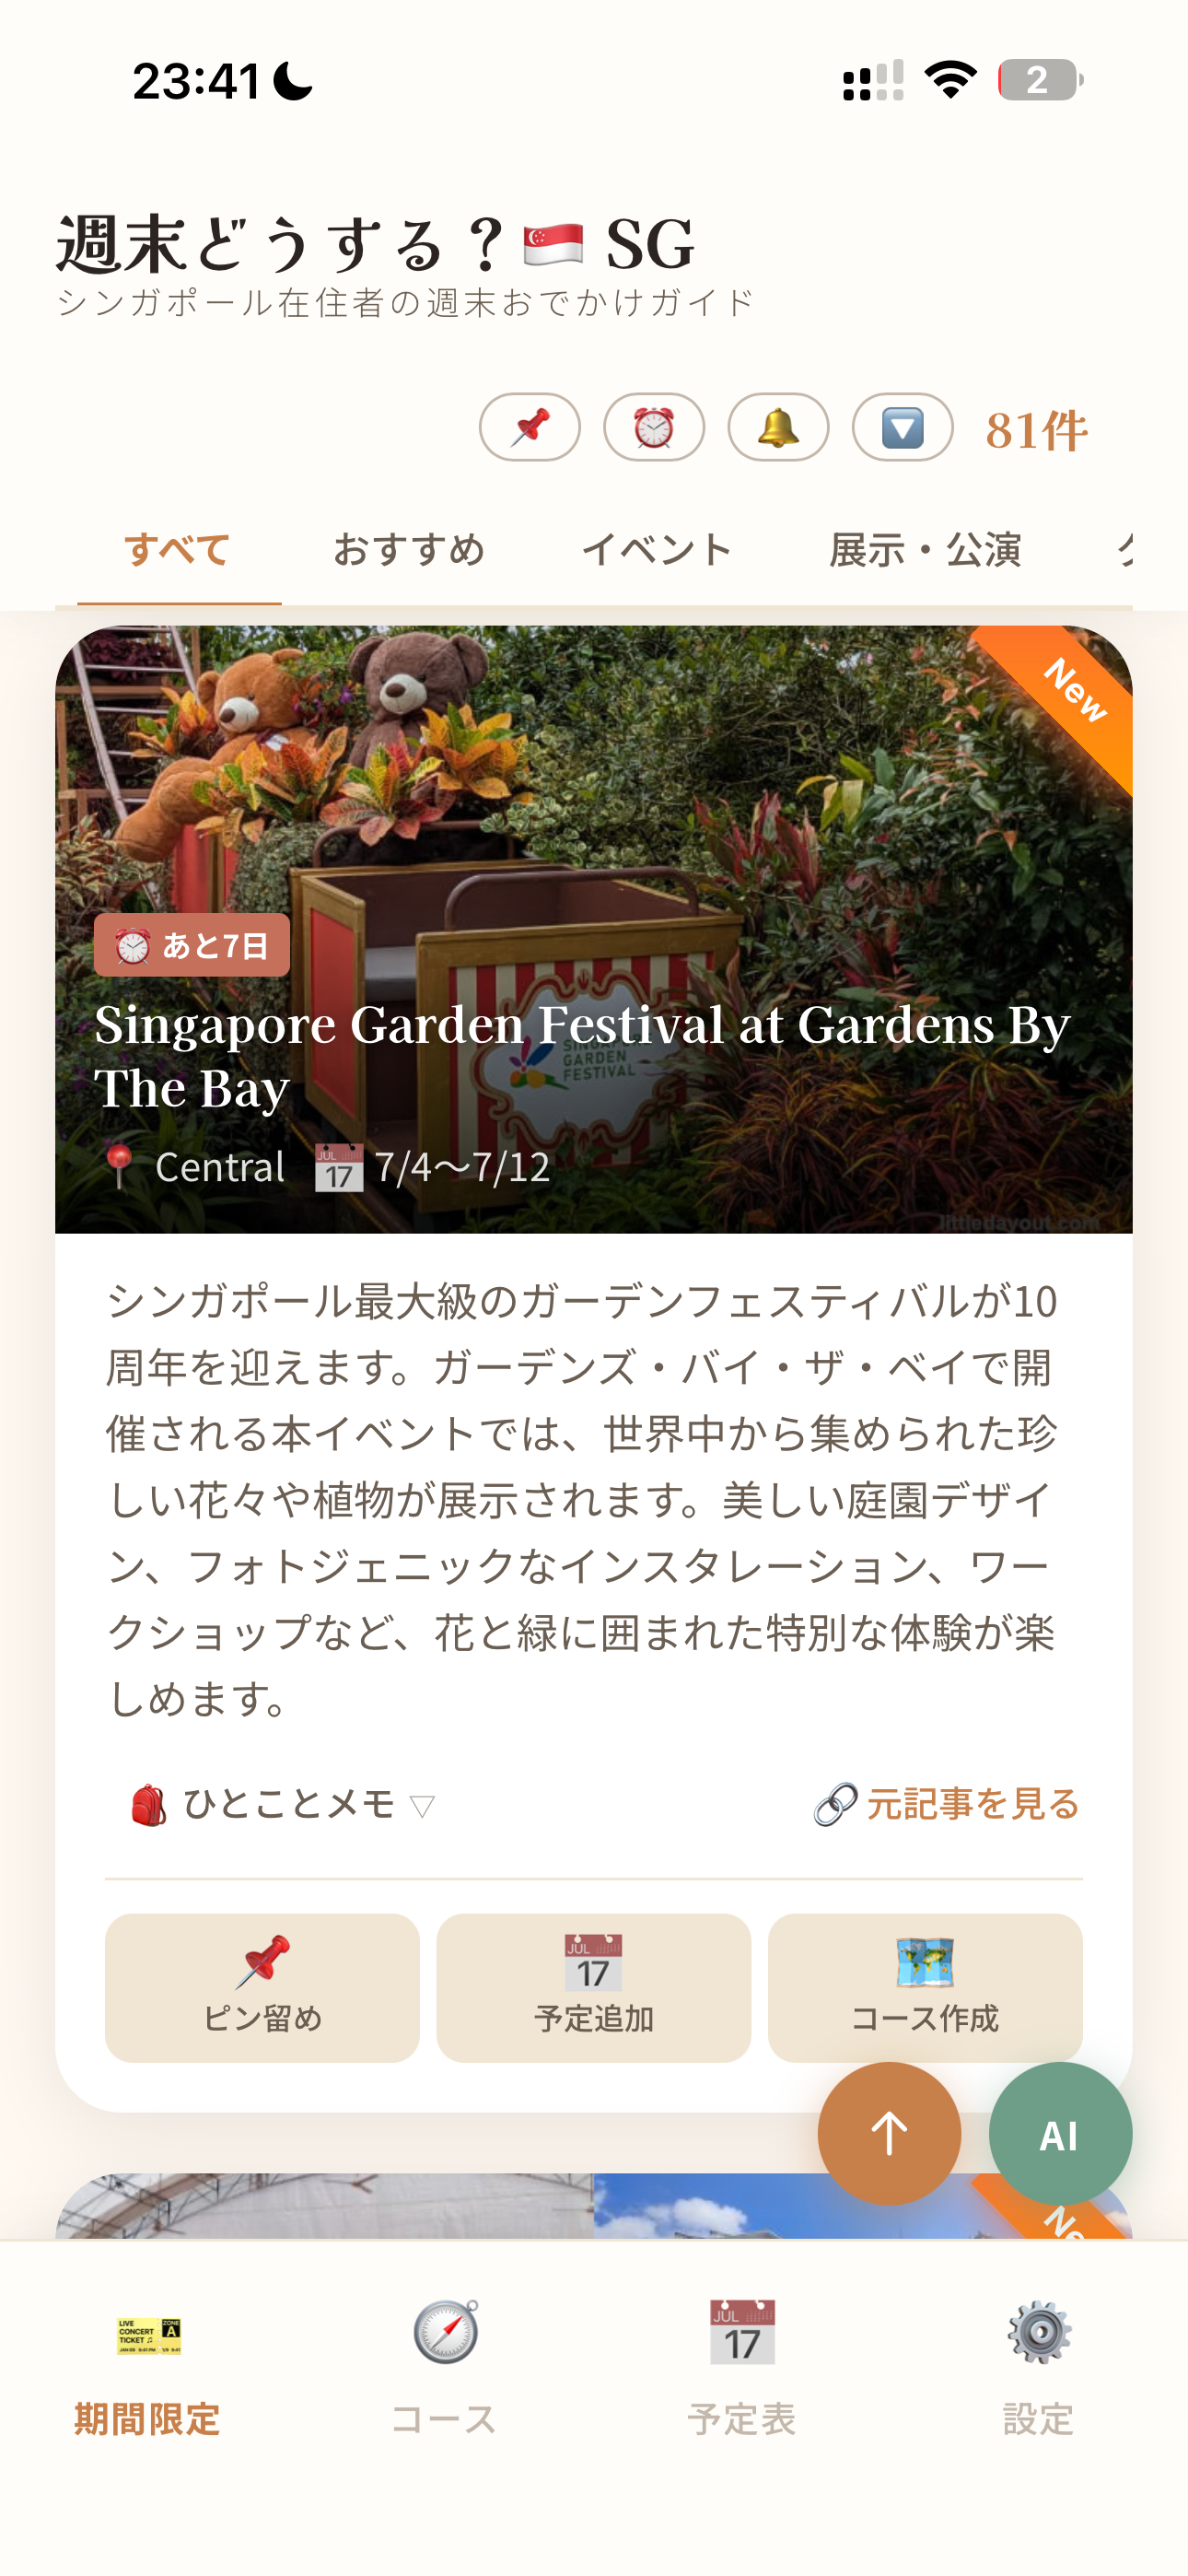
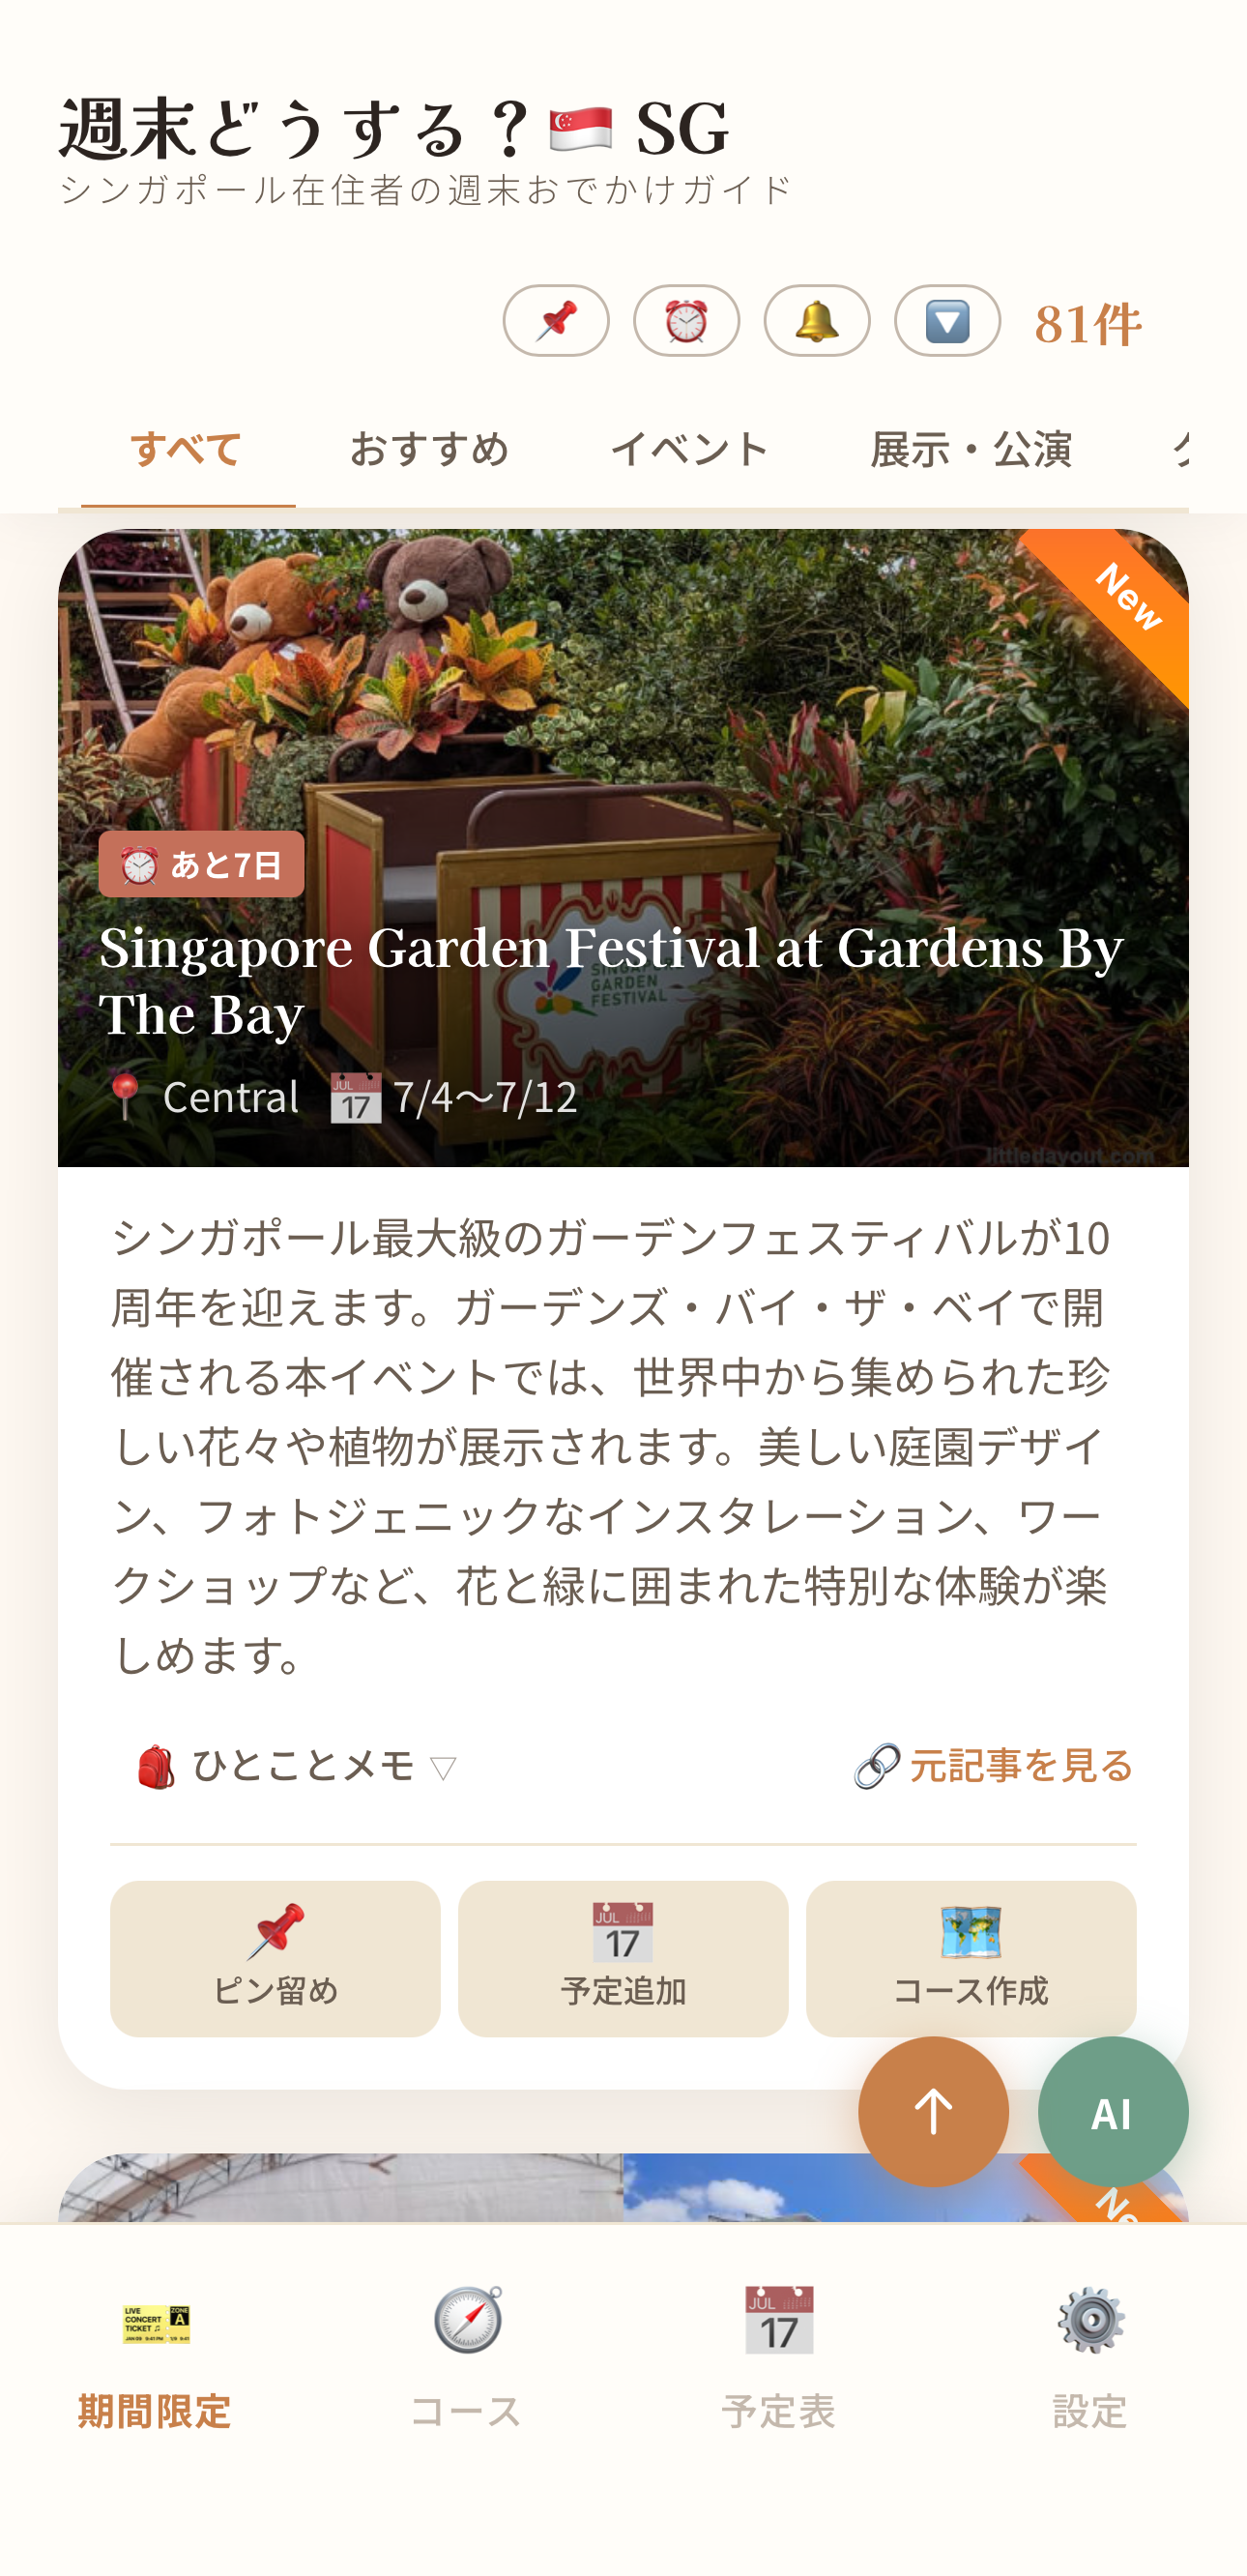
docs: リリースノート・about説明文・プライバシーポリシーを最新機能に合わせて更新
- ios-app/package.json: releaseNotesを探訪の思い出機能・来星日カウンター・アカウント連携必須化に合わせて更新（170文字以内）
- about.html: 「便利な機能」を4項目に拡張、AIコース作成をモデルコース・探訪スタンプ帳の紹介に差し替え。フォンモックアップ画像をステータスバー除去版に差し替え（探訪スタンプ帳のスクリーンショット追加）
- privacy.html: 位置情報（探訪チェックイン）・写真（思い出機能、端末内のみ保存）の項目を追記、最終更新日を更新

Claude-Session: https://claude.ai/code/session_01GrTkpYhh7GZVRETNxavzGK

diff --git a/public/about.html b/public/about.html
@@ -352,20 +352,20 @@
       <div class="mockup-item">
         <div class="phone">
           <div class="phone-img-wrap">
-            <img src="/screenshots/screen-events.png?v=3" alt="イベントを探す">
+            <img src="/screenshots/screen-events.png?v=4" alt="イベントを探す">
           </div>
         </div>
         <div class="mockup-label">イベントを探す</div>
       </div>
 
-      <!-- SCREEN 2: コース -->
+      <!-- SCREEN 2: 探訪スタンプ帳 -->
       <div class="mockup-item">
         <div class="phone">
           <div class="phone-img-wrap">
-            <img src="/screenshots/screen-courses.png?v=2" alt="AIコース提案">
+            <img src="/screenshots/screen-explore.png?v=1" alt="探訪スタンプ帳">
           </div>
         </div>
-        <div class="mockup-label">AIコース提案</div>
+        <div class="mockup-label">探訪スタンプ帳</div>
       </div>
 
       <!-- SCREEN 3: 予定表 -->
@@ -402,7 +402,7 @@
   <!-- FEATURES -->
   <section class="features">
     <div class="section-label">FEATURES</div>
-    <h2 class="section-title">3つの便利な機能</h2>
+    <h2 class="section-title">4つの便利な機能</h2>
     <div class="feature-grid">
       <div class="feature-card">
         <div class="feature-icon">🔍</div>
@@ -410,9 +410,14 @@
         <p>シンガポールの最新イベント・グルメ・体験情報を毎週更新。カテゴリ・エリア・日程で絞り込めます。</p>
       </div>
       <div class="feature-card">
+        <div class="feature-icon">🧭</div>
+        <h3>探訪スタンプ帳でシンガポールを巡る</h3>
+        <p>実在するスポットを巡ってチェックイン。訪れるたびに写真やひとことメモを残せて、在住期間に応じたレベルアップも楽しめます。</p>
+      </div>
+      <div class="feature-card">
         <div class="feature-icon">🗺</div>
-        <h3>AIがコースを提案</h3>
-        <p>行きたいイベントや好みのスタイルを選ぶだけで、AIが一日のおでかけコースを自動生成。ランチから移動手段まで提案。</p>
+        <h3>モデルコースを参考におでかけ</h3>
+        <p>テーマ別に厳選されたおでかけコースを紹介。スポット・移動・食事まで丸ごと参考にできます。</p>
       </div>
       <div class="feature-card">
         <div class="feature-icon">📅</div>

diff --git a/public/privacy.html b/public/privacy.html
@@ -32,7 +32,7 @@
 
   <main>
     <h1>プライバシーポリシー</h1>
-    <p class="updated">最終更新日：2026年7月19日</p>
+    <p class="updated">最終更新日：2026年7月24日</p>
 
     <p>WILLOA PTE. LTD.（以下「当方」）は、おでかけNavi（以下「本サービス」）におけるユーザーの個人情報の取り扱いについて、以下のとおりプライバシーポリシーを定めます。</p>
 
@@ -45,6 +45,8 @@
       <li><strong>Google/Appleアカウントの識別子</strong>：Google/Appleでログインする場合、認証トークンから得られる一意の識別子（sub）のみをサーバーに保存します。メールアドレス・氏名・プロフィール画像は保存・利用しません。なお、ログイン時にGoogle/Appleの同意画面にメールアドレス等へのアクセス許可が表示されることがありますが、これは各社の認証機能の仕様によるものであり、当方のサーバーはこれらの情報を受け取っても保存・利用しません。</li>
       <li><strong>予定表・マイコース等のバックアップデータ</strong>：ログインしたユーザーが「データバックアップ」機能を利用する場合、予定表・マイコース・ジャンル設定等のデータをお使いのデバイス上でパスフレーズを用いて暗号化したうえでサーバーに保存します。暗号化・復号はすべてデバイス上で行われ、パスフレーズ自体はサーバーに送信・保存されません。そのため、当方を含む第三者がバックアップデータの内容を復号・閲覧することはできません（ゼロ知識暗号化）。パスフレーズを忘れた場合、バックアップデータを復元することはできません。</li>
       <li><strong>共有カレンダーのデータ</strong>：家族・友人と予定を共有する「共有カレンダー」機能では、参加者間で共有するパスフレーズを用いてデータを暗号化して保存します。パスフレーズを知らない第三者がカレンダーの内容を閲覧することはできません。</li>
+      <li><strong>位置情報（GPS）</strong>：「探訪」機能でスポットにチェックインする際、現在地とスポットの距離を確認するため、緯度・経度をサーバーに送信します。チェックインが成立した場合、その位置情報はチェックイン履歴の一部としてサーバーに保存されます。位置情報の取得には端末の許可が必要です。</li>
+      <li><strong>写真</strong>：「探訪」機能でスポットの思い出として撮影・選択した写真は、お使いのデバイス内にのみ保存され、サーバーには一切送信されません。</li>
     </ul>
 
     <h2>2. 情報の利用目的</h2>